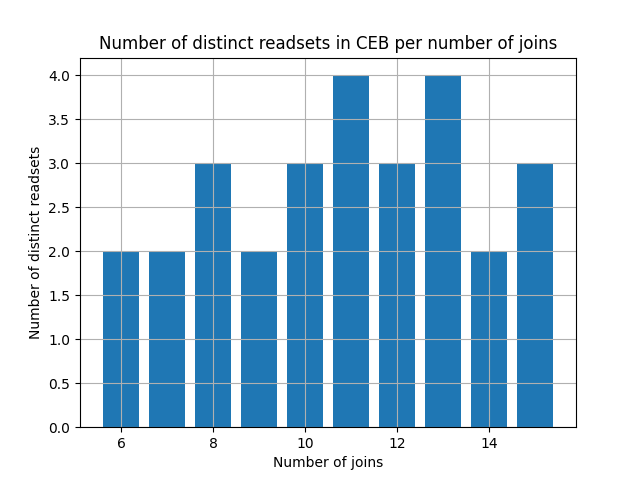
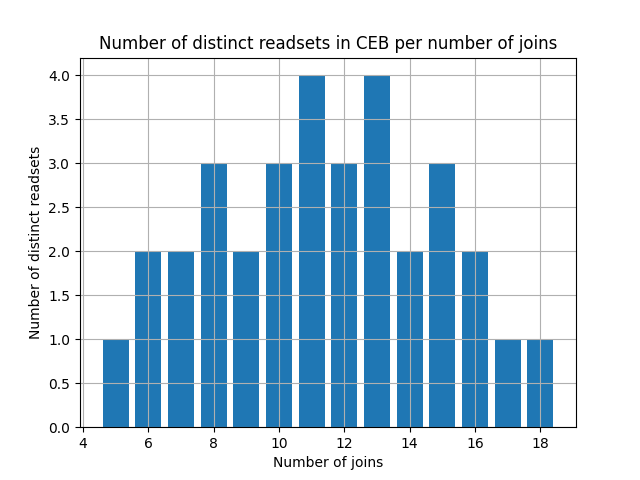
v0.1.1: Add LICENSE

diff --git a/gen.py b/gen.py
@@ -48,7 +48,7 @@ if __name__ == "__main__":
 
     # Check if the binary is available.
     if not os.path.isfile(args.duckdb_cli):
-        print(f"We couldn\'t find {args.duckdb_cli}. Please install DuckDB and try again.")
+        print(f"Couldn't find {args.duckdb_cli}. Please install DuckDB and try again.")
         sys.exit(-1)
 
     # (Create and) connect to the experiment database

diff --git a/run.py b/run.py
@@ -26,7 +26,7 @@ def parse_args():
 
     # Check whether the binary is available.
     if not os.path.isfile(args.duckdb_cli):
-        print(f"Couldn\'t find {args.duckdb_cli}. Please install DuckDB and try again.")
+        print(f"Couldn't find {args.duckdb_cli}. Please install DuckDB and try again.")
         sys.exit(-1)
 
     return args

diff --git a/src/benchmark_stats.py b/src/benchmark_stats.py
@@ -131,7 +131,7 @@ class BenchmarkStats:
         )
 
     def _dump_plots(self, benchmark_name, dir_path):
-        stats = self.get(benchmark_name)
+        stats = self.get(benchmark_name, bounds=None)
         benchmark_name = (
             benchmark_name.upper() if benchmark_name != "ceb_job" else "CEB+"
         )

diff --git a/README.md b/README.md
@@ -16,7 +16,7 @@ For more details on how we generate Redbench, refer to `DETAILS.md`. Summary plo
 
 ## Setup
 
-To unpack the workloads in `workloads/`, i.e., create runnable SQL workloads from the provided CSV files:
+To unpack the workloads, i.e., create runnable SQL workloads from the CSV files provided in `workloads/`:
 
 ```
 pip install -r requirements.txt
